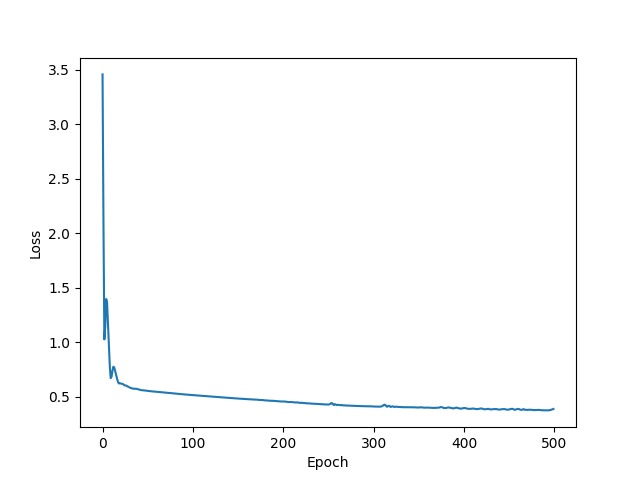
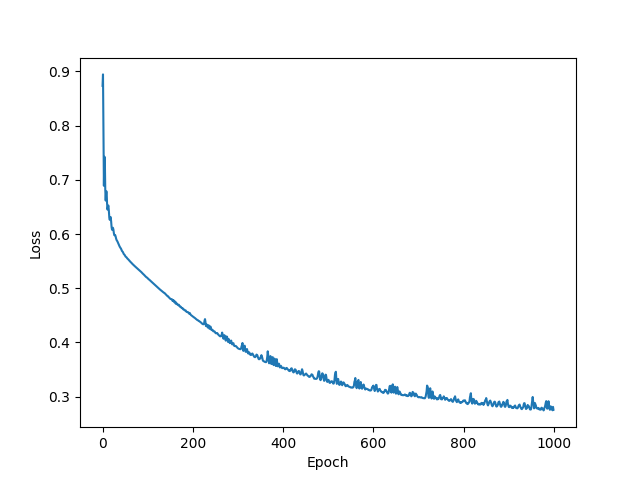
tweaked model

diff --git a/main.py b/main.py
@@ -7,7 +7,7 @@ import torch.optim as optim
 import torch.nn.functional as F
 
 class Model(nn.Module):
-    def __init__(self, in_features=8, h1=12, h2=14, out_features=2):
+    def __init__(self, in_features=8, h1=16, h2=16, out_features=2):
         super().__init__()
         self.fc1 = nn.Linear(in_features, h1)
         self.fc2 = nn.Linear(h1, h2)
@@ -44,9 +44,9 @@ y_train = torch.LongTensor(y_train)
 y_test = torch.LongTensor(y_test)
 
 criterion = nn.CrossEntropyLoss()
-optimizer = optim.Adam(model.parameters(), lr=0.01)
+optimizer = optim.Adam(model.parameters(), lr=0.005)
 
-epochs = 500
+epochs = 1000
 losses = []
 print('Training...')
 for i in range(1, epochs + 1):
